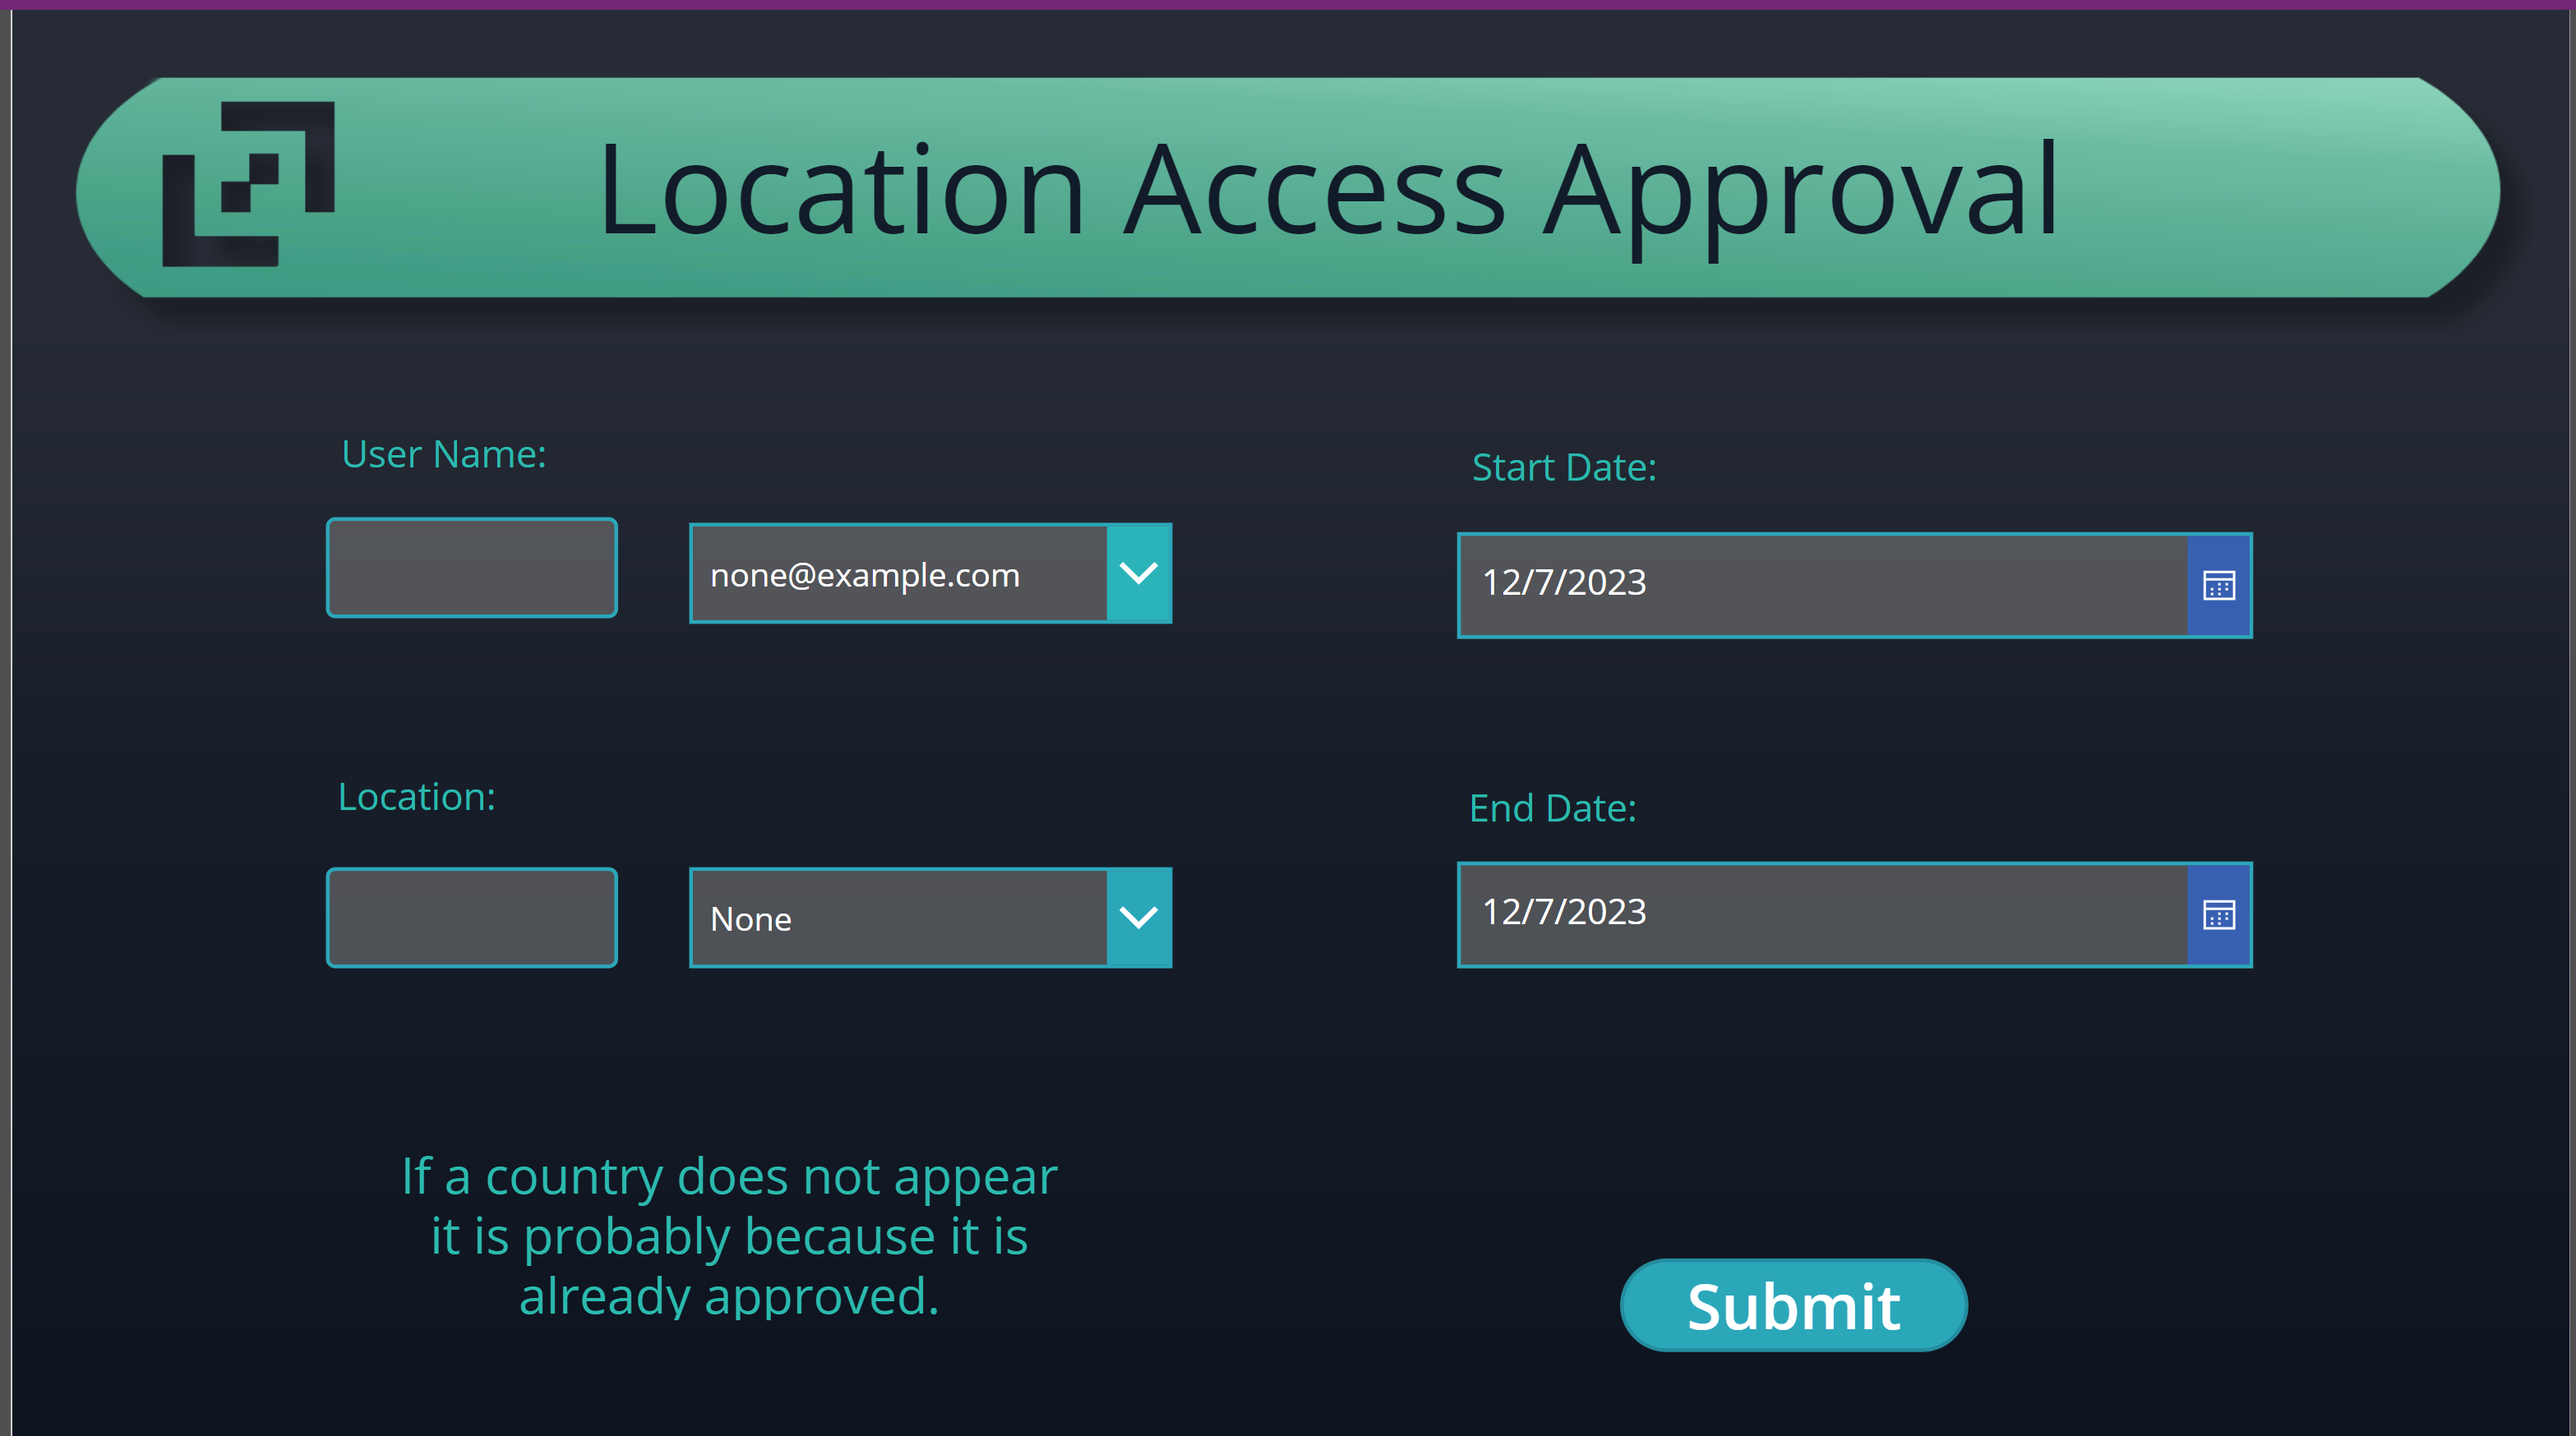
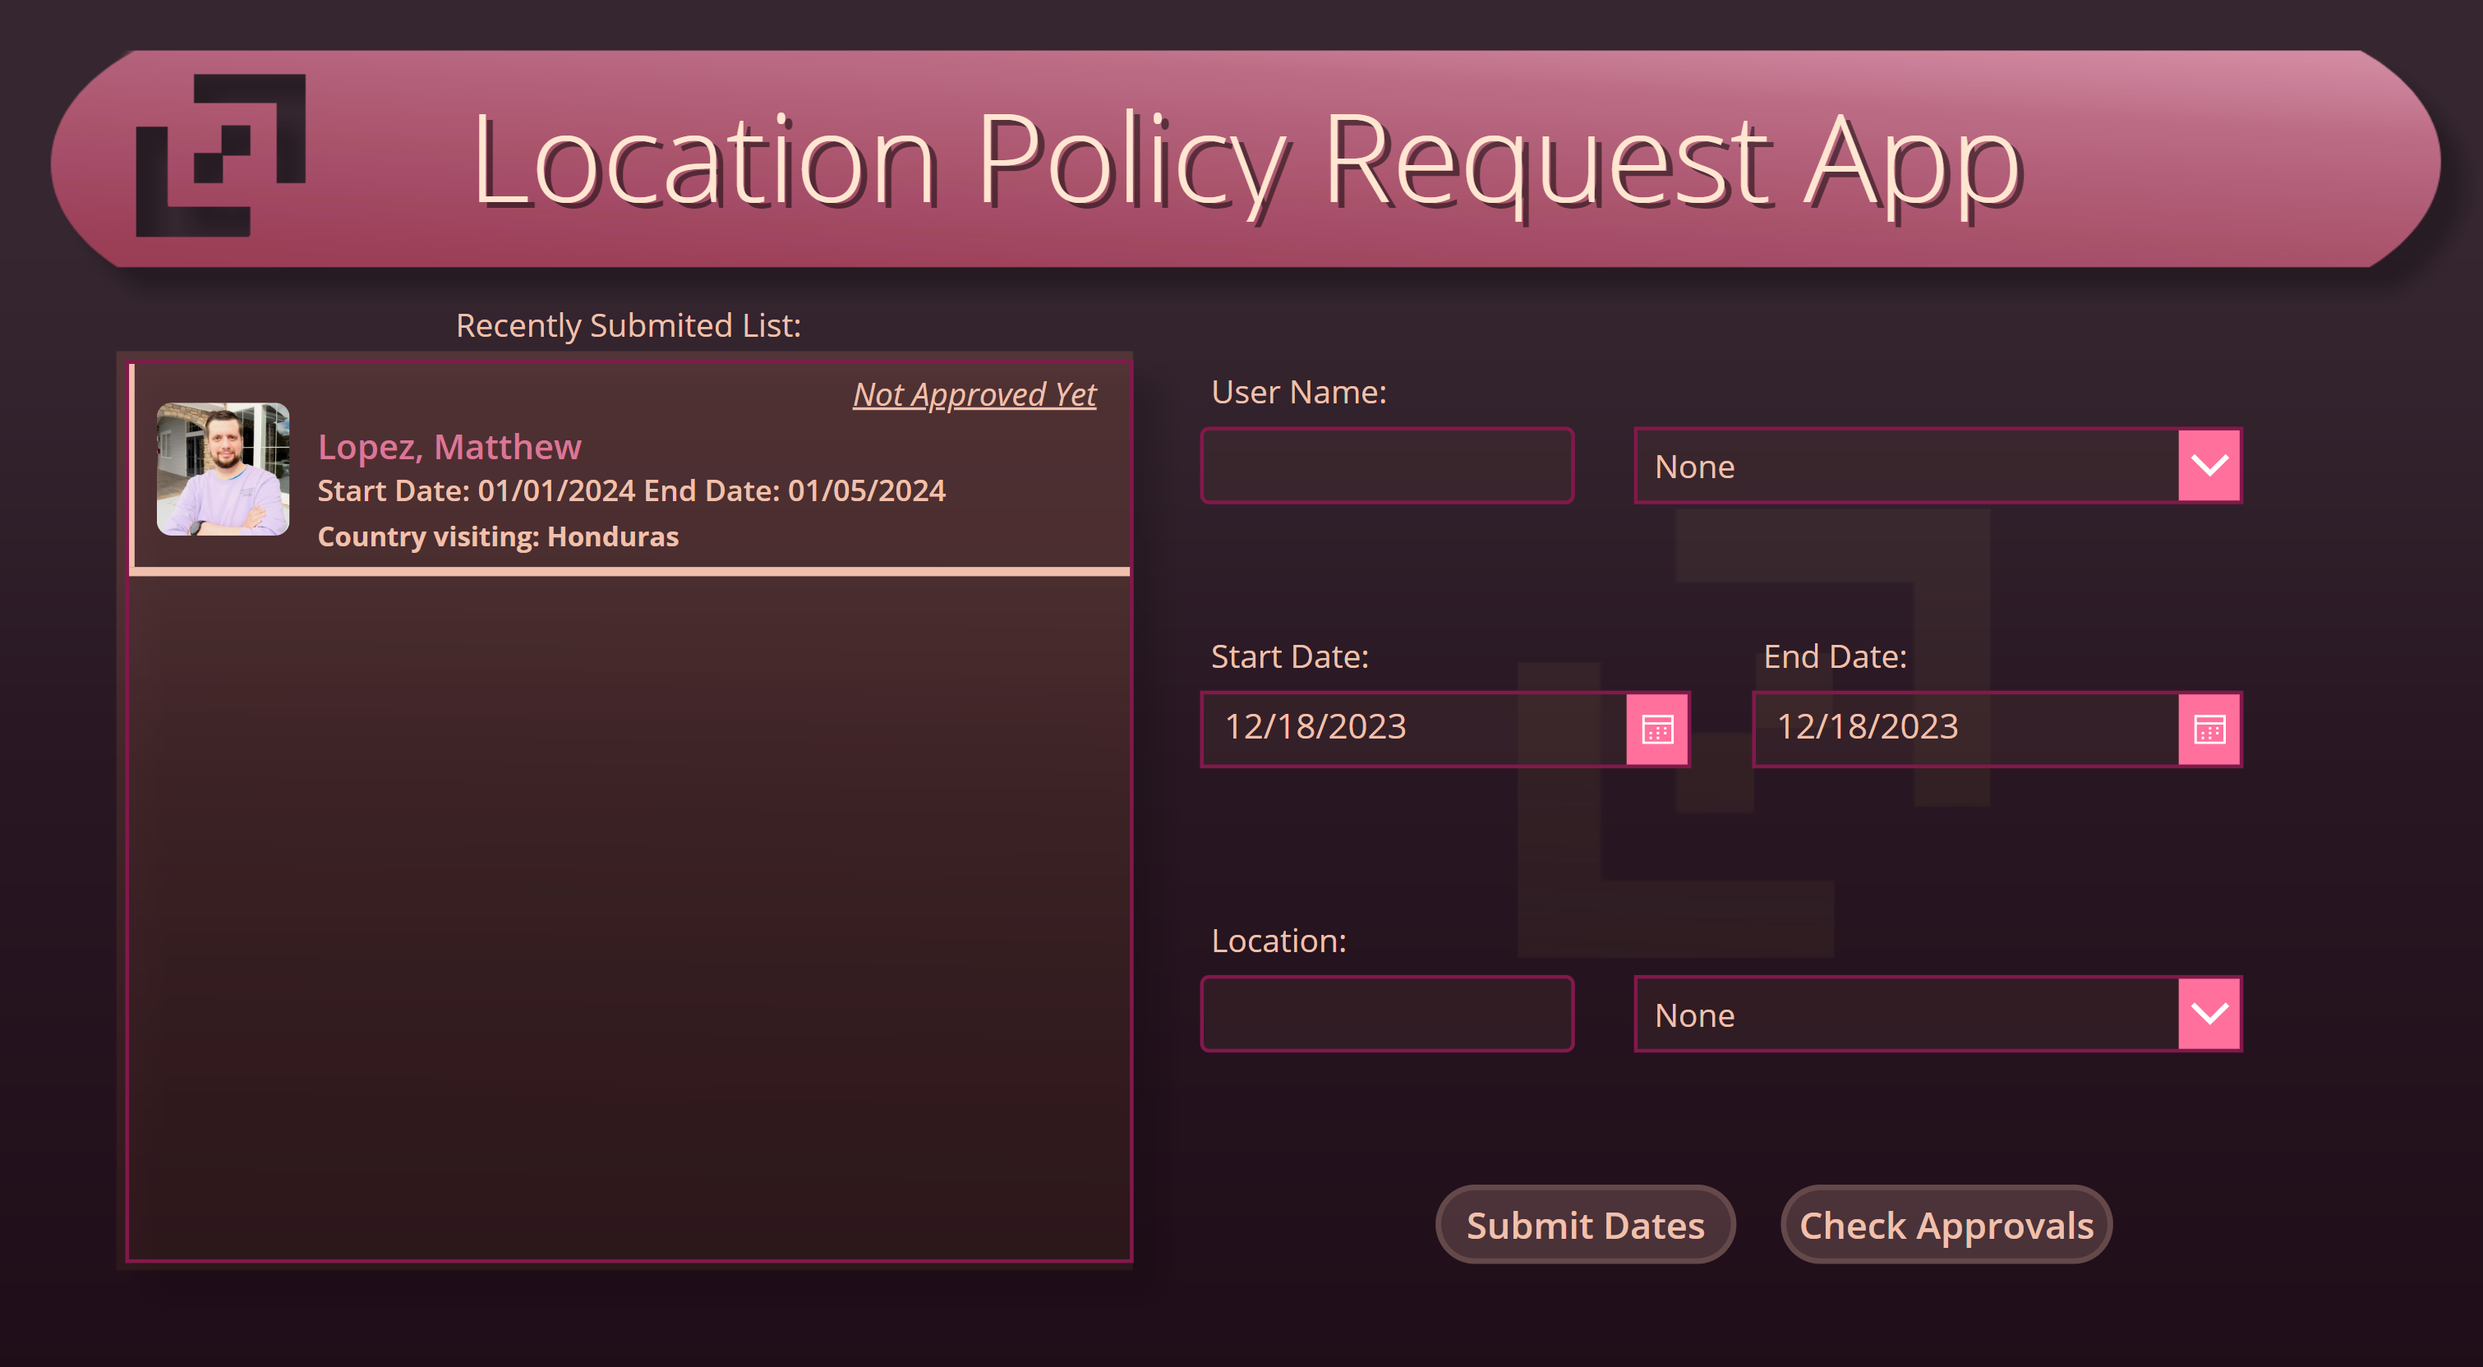
Adjustment of the photos to display UI

diff --git a/README.md b/README.md
@@ -113,6 +113,7 @@ Each project showcases unique solutions and innovations in the Power Platform sp
   - Streamlined approval process for new country additions.
   - Seamless PowerShell script execution for Azure AD updates.
   - Intuitive Power App interface for submission of country additions.
+  - Calendar Tracking: You can now monitor dates approved with the built in UI calendar.
 - **Workflow:** 
   - Power App initiates a country addition request.
   - Power Automate triggers an approval process, sends notifications to approvers, and awaits their decision.
@@ -121,6 +122,7 @@ Each project showcases unique solutions and innovations in the Power Platform sp
 - **Gallery:**  
   ![Policy Approval UI](/Images/LocationApprovalUI.png)  
   ![Policy Approval Flow](/Images/LocationApprovalFlow.png)
+  ![Policy Approval UI Calendar](/Images/LocationApprovalUI2.png)    
 
 In this project, Power Automate orchestrates the addition of new countries to Azure AD's policy list through a managed approval process. The flow initiates when a country addition request is made, setting up variables for user details and policy information. An approval email is dispatched, and upon affirmative response, the automation schedules the update using the start date provided. It retrieves and compiles necessary data from SharePoint, where policy details are maintained, and uses a PowerShell script to update Azure AD policy accordingly. This script, leveraging Microsoft Graph, automates the authorization and update process, ensuring secure and efficient policy management.
 
